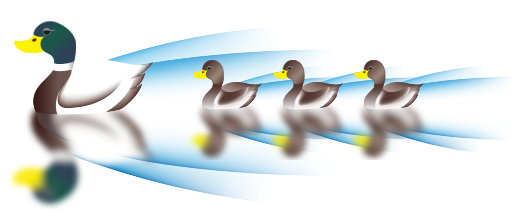
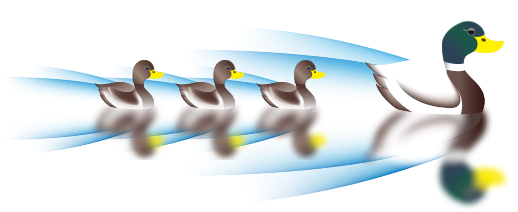
Parallax

diff --git a/app/assets/stylesheets/parallax.css b/app/assets/stylesheets/parallax.css
@@ -2,24 +2,37 @@ html, body {
     padding: 0;
     margin: 0;
 }
-#day_sky {
-    background: url(/assets/01_Day_01_Sky.png) 0 50% repeat fixed; 
-    min-height: 768px;
-    height: 620px;
-    margin: 0 auto;
+.sky {
+    height: 768px;
     width: 1366px;
-    float: left;
-    position: relative;
-    text-align: center;
+    position: absolute;
+}
+#day_sky {
+    background: url(/assets/01_Day_01_Sky.png) repeat-x fixed;
+    background-position: 0 50%; 
+}
+#evening_sky {
+    background: url(/assets/02_Evening_01_Sky.png) 0 50% repeat-x fixed;
+    left: 1366px;
+}
+#night_sky {
+    background: url(/assets/03_Night_01_Sky.png) 0 50% repeat-x fixed;
+    left: 2732px;
+}
+
+.forest {
+    height: 158px;
+    width: 1366px;
+    position: absolute;
+    top: 150px;
 }
 #day_forest {
-    height: 158px;
-    position: absolute;
-    text-align: center;
-    background: url(/assets/01_Day_02_Forest.png) 0 150px no-repeat fixed;
-    top: 150px;
-    width: 1366px;
+    background: url(/assets/01_Day_02_Forest.png) 0 150px repeat-x fixed;
 }
+#evening_forest {
+    background: url(/assets/02_Evening_02_Forest.png) 0 150px repeat-x fixed;
+}
+
 #day_trees {
     height: 266px;
     position: absolute;
@@ -27,17 +40,17 @@ html, body {
     top: 159px;
     width: 1366px;
 }
-#day_man {
+#fore {
     height: 568px;
     position: absolute;
-    background: url(/assets/01_Day_04_Man.png) 0 0 no-repeat;
-    top: 72px;
+    background: url(/assets/Fore.png) 0 0 no-repeat;
+    top: 55px;
     width: 5464px; 
 }
 #day_ducks {
     height: 212px;
     position: absolute;
-    background: url(/assets/01_Day_00_Ducks.png) 1366px 582px no-repeat fixed;
+    background: url(/assets/01_Day_00_Ducks.png) -800px 582px no-repeat fixed;
     top: 582px;
     width: 1366px;
 }
@@ -48,8 +61,8 @@ html, body {
     width: 400px;
     left: 450px;
     background-color: white;
-    opacity: 0.8;
-    filter: alpha(opacity=80);
+    opacity: 0.87;
+    filter: alpha(opacity=87);
     zoom: 1;
     -webkit-border-radius: 4px;
     -moz-border-radius: 4px;

diff --git a/app/assets/javascripts/parallax.js b/app/assets/javascripts/parallax.js
@@ -1,24 +1,28 @@
 var reObj;
 var xPos;
 var coords;
+var speed;
 
-function redraw(obj, shift, y){
-    $reObj = obj;
-    xPos = -($(window).scrollLeft() * $reObj.data('speed')) - shift;
+function redraw(obj, shift, y, moveto){
+    xPos = $(window).scrollLeft() * obj.data('speed');
+    if (moveto == 'left') { xPos = -(xPos) };
+    xPos = xPos - shift;
     coords = xPos + 'px ' + y;
-    $reObj.css({ backgroundPosition: coords });
+    obj.css({ backgroundPosition: coords });
 }
 
 $(document).ready(function(){
     $(window).scroll(function() {
-        redraw( $('#day_sky'), 0, '50%' );
-        redraw( $('#day_forest'), 0, '150px' );
-        redraw( $('#day_trees'), 1000, '159px' );
-        redraw( $('#day_ducks'), (-1366), '582px' );
-        if ($(window).scrollLeft() > 100 && $(window).scrollLeft() < 350) {
-            $('#day_info_box').show();
+        redraw( $('#day_sky'), 0, '50%', 'right' );
+        redraw( $('#night_sky'), 0, '50%', 'left' );
+        redraw( $('#evening_forest'), 0, '150px', 'left' );
+        redraw( $('#day_forest'), 0, '150px', 'left' );
+        redraw( $('#day_trees'), 1000, '159px', 'left' );
+        redraw( $('#day_ducks'), 800, '582px', 'right' );
+        if ($(window).scrollLeft() > 125 && $(window).scrollLeft() < 675) {
+            $('#day_info_box').fadeIn();
         } else {
-            $('#day_info_box').hide();
+            $('#day_info_box').fadeOut();
         };
     });
 });
